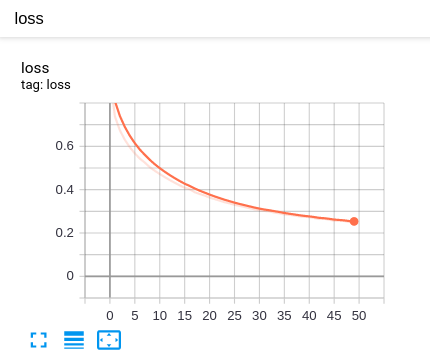
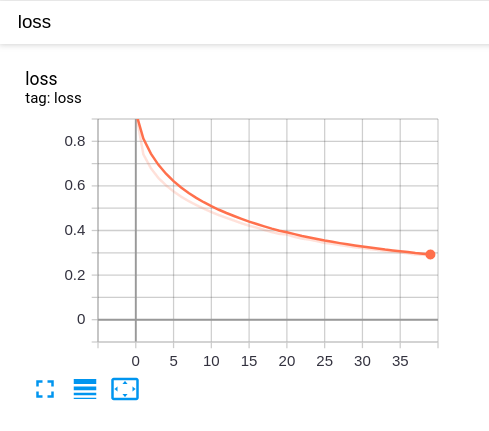
add train logs

diff --git a/libs/configs/cfgs.py b/libs/configs/cfgs.py
@@ -77,7 +77,7 @@ DATASET_PATH = '/media/alex/AC6A2BDB6A2BA0D6/alex_dataset/COCO_2017'
 
 #------------------------network config--------------------------------
 BATCH_SIZE = 64
-TOP_WORDS = 8000
+TOP_WORDS = 6000
 # SEQUENCE_LENGTH = 100 # the number in singe time dimension of a single sequence of input data
 # VOCAB_SIZE = 26
 NUM_UNITS = 512
@@ -91,7 +91,7 @@ ATTENTION_FEATURE_SHAPE = 64
 EMBEDDING_TRANSFER = False
 LEARNING_RATE = 0.001
 NUM_EPOCH = 40
-KEEP_PROB = 1.0
+DROP_OUT = 0.2
 
 # data
 SPLIT_RATIO = 0.2

diff --git a/tools/inference.py b/tools/inference.py
@@ -91,7 +91,10 @@ if __name__ == "__main__":
                                      encoder=encoder,
                                      decoder=decoder)
     # restoring the latest checkpoint in checkpoint_dir
-    checkpoint.restore(tf.train.latest_checkpoint(cfgs.TRAINED_CKPT))
+    ckpt_path = tf.train.latest_checkpoint(cfgs.TRAINED_CKPT)
+    print(ckpt_path)
+
+    checkpoint.restore(ckpt_path)
 
     image_path = os.path.abspath(os.path.join('../tools/demo', 'surf.jpg'))
 

diff --git a/README.md b/README.md
@@ -1,2 +1,348 @@
 # Image-Caption
 Try to realize image caption task with attention mechanism
+
+
+
+## Download Dataset
+
+### COCO 2017
+```shell script
+$ wget http://images.cocodataset.org/annotations/annotations_trainval2017.zip
+$ wget http://images.cocodataset.org/zips/train2017.zip
+$ wget http://images.cocodataset.org/zips/val2017.zip
+```
+
+## train logs
+
+![acc](./docs/loss.png) |
+|:-------------------------:|
+Displayed one-state Loss on Tensorboard | 
+
+```shell script
+Epoch 1 Batch 0 Loss 2.0863
+Epoch 1 Batch 100 Loss 1.0597
+Epoch 1 Batch 200 Loss 0.8964
+Epoch 1 Batch 300 Loss 0.8230
+Epoch 1 Batch 400 Loss 0.7689
+Epoch 1 Loss 0.930465
+Time taken for 1 epoch 88.79079103469849 sec
+
+Epoch 2 Batch 0 Loss 0.7520
+Epoch 2 Batch 100 Loss 0.7526
+Epoch 2 Batch 200 Loss 0.7243
+Epoch 2 Batch 300 Loss 0.7454
+Epoch 2 Batch 400 Loss 0.6925
+Epoch 2 Loss 0.741867
+Time taken for 1 epoch 62.70849061012268 sec
+
+Epoch 3 Batch 0 Loss 0.7186
+Epoch 3 Batch 100 Loss 0.6977
+Epoch 3 Batch 200 Loss 0.6637
+Epoch 3 Batch 300 Loss 0.7347
+Epoch 3 Batch 400 Loss 0.6348
+Epoch 3 Loss 0.679247
+Time taken for 1 epoch 63.417168378829956 sec
+
+Epoch 4 Batch 0 Loss 0.6524
+Epoch 4 Batch 100 Loss 0.6305
+Epoch 4 Batch 200 Loss 0.6449
+Epoch 4 Batch 300 Loss 0.6961
+Epoch 4 Batch 400 Loss 0.6886
+Epoch 4 Loss 0.635317
+Time taken for 1 epoch 62.047245502471924 sec
+
+Epoch 5 Batch 0 Loss 0.6415
+Epoch 5 Batch 100 Loss 0.5704
+Epoch 5 Batch 200 Loss 0.5680
+Epoch 5 Batch 300 Loss 0.5934
+Epoch 5 Batch 400 Loss 0.6082
+Epoch 5 Loss 0.602379
+Time taken for 1 epoch 61.95527362823486 sec
+
+Epoch 6 Batch 0 Loss 0.5951
+Epoch 6 Batch 100 Loss 0.5788
+Epoch 6 Batch 200 Loss 0.6203
+Epoch 6 Batch 300 Loss 0.5834
+Epoch 6 Batch 400 Loss 0.5760
+Epoch 6 Loss 0.575292
+Time taken for 1 epoch 62.17039442062378 sec
+
+Epoch 7 Batch 0 Loss 0.5559
+Epoch 7 Batch 100 Loss 0.5914
+Epoch 7 Batch 200 Loss 0.5531
+Epoch 7 Batch 300 Loss 0.6035
+Epoch 7 Batch 400 Loss 0.5581
+Epoch 7 Loss 0.551670
+Time taken for 1 epoch 62.147112131118774 sec
+
+Epoch 8 Batch 0 Loss 0.5465
+Epoch 8 Batch 100 Loss 0.5727
+Epoch 8 Batch 200 Loss 0.5478
+Epoch 8 Batch 300 Loss 0.5074
+Epoch 8 Batch 400 Loss 0.4858
+Epoch 8 Loss 0.531773
+Time taken for 1 epoch 62.23778820037842 sec
+
+Epoch 9 Batch 0 Loss 0.5312
+Epoch 9 Batch 100 Loss 0.5194
+Epoch 9 Batch 200 Loss 0.5111
+Epoch 9 Batch 300 Loss 0.5043
+Epoch 9 Batch 400 Loss 0.4993
+Epoch 9 Loss 0.514191
+Time taken for 1 epoch 62.399840354919434 sec
+
+Epoch 10 Batch 0 Loss 0.5738
+Epoch 10 Batch 100 Loss 0.5311
+Epoch 10 Batch 200 Loss 0.4454
+Epoch 10 Batch 300 Loss 0.5031
+Epoch 10 Batch 400 Loss 0.4839
+Epoch 10 Loss 0.498033
+Time taken for 1 epoch 62.07080340385437 sec
+
+Epoch 11 Batch 0 Loss 0.4859
+Epoch 11 Batch 100 Loss 0.4914
+Epoch 11 Batch 200 Loss 0.4741
+Epoch 11 Batch 300 Loss 0.5297
+Epoch 11 Batch 400 Loss 0.4536
+Epoch 11 Loss 0.482715
+Time taken for 1 epoch 62.20662593841553 sec
+
+Epoch 12 Batch 0 Loss 0.5237
+Epoch 12 Batch 100 Loss 0.4764
+Epoch 12 Batch 200 Loss 0.4750
+Epoch 12 Batch 300 Loss 0.4888
+Epoch 12 Batch 400 Loss 0.4580
+Epoch 12 Loss 0.468855
+Time taken for 1 epoch 62.08107018470764 sec
+
+Epoch 13 Batch 0 Loss 0.4636
+Epoch 13 Batch 100 Loss 0.4640
+Epoch 13 Batch 200 Loss 0.4617
+Epoch 13 Batch 300 Loss 0.4579
+Epoch 13 Batch 400 Loss 0.4541
+Epoch 13 Loss 0.456626
+Time taken for 1 epoch 62.13136696815491 sec
+
+Epoch 14 Batch 0 Loss 0.4467
+Epoch 14 Batch 100 Loss 0.4213
+Epoch 14 Batch 200 Loss 0.4393
+Epoch 14 Batch 300 Loss 0.4257
+Epoch 14 Batch 400 Loss 0.4088
+Epoch 14 Loss 0.444544
+Time taken for 1 epoch 62.1701021194458 sec
+
+Epoch 15 Batch 0 Loss 0.4061
+Epoch 15 Batch 100 Loss 0.4491
+Epoch 15 Batch 200 Loss 0.4345
+Epoch 15 Batch 300 Loss 0.4342
+Epoch 15 Batch 400 Loss 0.4335
+Epoch 15 Loss 0.432324
+Time taken for 1 epoch 62.208892583847046 sec
+
+Epoch 16 Batch 0 Loss 0.4426
+Epoch 16 Batch 100 Loss 0.4414
+Epoch 16 Batch 200 Loss 0.3999
+Epoch 16 Batch 300 Loss 0.4284
+Epoch 16 Batch 400 Loss 0.4027
+Epoch 16 Loss 0.421366
+Time taken for 1 epoch 62.30162858963013 sec
+
+Epoch 17 Batch 0 Loss 0.3940
+Epoch 17 Batch 100 Loss 0.4292
+Epoch 17 Batch 200 Loss 0.3963
+Epoch 17 Batch 300 Loss 0.3868
+Epoch 17 Batch 400 Loss 0.3989
+Epoch 17 Loss 0.412942
+Time taken for 1 epoch 62.14147686958313 sec
+
+Epoch 18 Batch 0 Loss 0.3981
+Epoch 18 Batch 100 Loss 0.3659
+Epoch 18 Batch 200 Loss 0.4522
+Epoch 18 Batch 300 Loss 0.3812
+Epoch 18 Batch 400 Loss 0.3981
+Epoch 18 Loss 0.402603
+Time taken for 1 epoch 62.11654210090637 sec
+
+Epoch 19 Batch 0 Loss 0.3841
+Epoch 19 Batch 100 Loss 0.3912
+Epoch 19 Batch 200 Loss 0.4184
+Epoch 19 Batch 300 Loss 0.3717
+Epoch 19 Batch 400 Loss 0.3970
+Epoch 19 Loss 0.392885
+Time taken for 1 epoch 62.16392207145691 sec
+
+Epoch 20 Batch 0 Loss 0.4362
+Epoch 20 Batch 100 Loss 0.3851
+Epoch 20 Batch 200 Loss 0.4008
+Epoch 20 Batch 300 Loss 0.3794
+Epoch 20 Batch 400 Loss 0.3680
+Epoch 20 Loss 0.384853
+Time taken for 1 epoch 62.12644672393799 sec
+
+Epoch 21 Batch 0 Loss 0.3904
+Epoch 21 Batch 100 Loss 0.3543
+Epoch 21 Batch 200 Loss 0.3997
+Epoch 21 Batch 300 Loss 0.3970
+Epoch 21 Batch 400 Loss 0.3805
+Epoch 21 Loss 0.382209
+Time taken for 1 epoch 62.24511909484863 sec
+
+Epoch 22 Batch 0 Loss 0.3926
+Epoch 22 Batch 100 Loss 0.3838
+Epoch 22 Batch 200 Loss 0.3491
+Epoch 22 Batch 300 Loss 0.3854
+Epoch 22 Batch 400 Loss 0.3587
+Epoch 22 Loss 0.371357
+Time taken for 1 epoch 62.219072103500366 sec
+
+Epoch 23 Batch 0 Loss 0.3714
+Epoch 23 Batch 100 Loss 0.3741
+Epoch 23 Batch 200 Loss 0.3084
+Epoch 23 Batch 300 Loss 0.3296
+Epoch 23 Batch 400 Loss 0.3730
+Epoch 23 Loss 0.363621
+Time taken for 1 epoch 62.25777769088745 sec
+
+Epoch 24 Batch 0 Loss 0.3738
+Epoch 24 Batch 100 Loss 0.3567
+Epoch 24 Batch 200 Loss 0.3628
+Epoch 24 Batch 300 Loss 0.3637
+Epoch 24 Batch 400 Loss 0.3498
+Epoch 24 Loss 0.358977
+Time taken for 1 epoch 62.57697415351868 sec
+
+Epoch 25 Batch 0 Loss 0.3872
+Epoch 25 Batch 100 Loss 0.4195
+Epoch 25 Batch 200 Loss 0.3318
+Epoch 25 Batch 300 Loss 0.3614
+Epoch 25 Batch 400 Loss 0.3466
+Epoch 25 Loss 0.352132
+Time taken for 1 epoch 63.967907190322876 sec
+
+Epoch 26 Batch 0 Loss 0.3206
+Epoch 26 Batch 100 Loss 0.3347
+Epoch 26 Batch 200 Loss 0.3387
+Epoch 26 Batch 300 Loss 0.3584
+Epoch 26 Batch 400 Loss 0.3120
+Epoch 26 Loss 0.344149
+Time taken for 1 epoch 63.447741985321045 sec
+
+Epoch 27 Batch 0 Loss 0.3415
+Epoch 27 Batch 100 Loss 0.3525
+Epoch 27 Batch 200 Loss 0.3529
+Epoch 27 Batch 300 Loss 0.3527
+Epoch 27 Batch 400 Loss 0.3293
+Epoch 27 Loss 0.340496
+Time taken for 1 epoch 63.6301372051239 sec
+
+Epoch 28 Batch 0 Loss 0.3349
+Epoch 28 Batch 100 Loss 0.2965
+Epoch 28 Batch 200 Loss 0.3220
+Epoch 28 Batch 300 Loss 0.2956
+Epoch 28 Batch 400 Loss 0.3189
+Epoch 28 Loss 0.334551
+Time taken for 1 epoch 63.77362656593323 sec
+
+Epoch 29 Batch 0 Loss 0.3655
+Epoch 29 Batch 100 Loss 0.3289
+Epoch 29 Batch 200 Loss 0.3342
+Epoch 29 Batch 300 Loss 0.3206
+Epoch 29 Batch 400 Loss 0.3251
+Epoch 29 Loss 0.329783
+Time taken for 1 epoch 62.467034101486206 sec
+
+Epoch 30 Batch 0 Loss 0.3274
+Epoch 30 Batch 100 Loss 0.3244
+Epoch 30 Batch 200 Loss 0.3332
+Epoch 30 Batch 300 Loss 0.3009
+Epoch 30 Batch 400 Loss 0.3038
+Epoch 30 Loss 0.324632
+Time taken for 1 epoch 62.47533202171326 sec
+
+Epoch 31 Batch 0 Loss 0.3113
+Epoch 31 Batch 100 Loss 0.3477
+Epoch 31 Batch 200 Loss 0.3191
+Epoch 31 Batch 300 Loss 0.3609
+Epoch 31 Batch 400 Loss 0.3035
+Epoch 31 Loss 0.321229
+Time taken for 1 epoch 62.55126929283142 sec
+
+Epoch 32 Batch 0 Loss 0.2778
+Epoch 32 Batch 100 Loss 0.3289
+Epoch 32 Batch 200 Loss 0.3057
+Epoch 32 Batch 300 Loss 0.3099
+Epoch 32 Batch 400 Loss 0.2980
+Epoch 32 Loss 0.316528
+Time taken for 1 epoch 62.464524030685425 sec
+
+Epoch 33 Batch 0 Loss 0.3295
+Epoch 33 Batch 100 Loss 0.2889
+Epoch 33 Batch 200 Loss 0.3131
+Epoch 33 Batch 300 Loss 0.3423
+Epoch 33 Batch 400 Loss 0.3448
+Epoch 33 Loss 0.312820
+Time taken for 1 epoch 62.75636649131775 sec
+
+Epoch 34 Batch 0 Loss 0.3229
+Epoch 34 Batch 100 Loss 0.3235
+Epoch 34 Batch 200 Loss 0.3091
+Epoch 34 Batch 300 Loss 0.3469
+Epoch 34 Batch 400 Loss 0.3308
+Epoch 34 Loss 0.307286
+Time taken for 1 epoch 62.305132150650024 sec
+
+Epoch 35 Batch 0 Loss 0.3148
+Epoch 35 Batch 100 Loss 0.2995
+Epoch 35 Batch 200 Loss 0.3408
+Epoch 35 Batch 300 Loss 0.3138
+Epoch 35 Batch 400 Loss 0.3434
+Epoch 35 Loss 0.304650
+Time taken for 1 epoch 62.25085163116455 sec
+
+Epoch 36 Batch 0 Loss 0.3383
+Epoch 36 Batch 100 Loss 0.3102
+Epoch 36 Batch 200 Loss 0.2898
+Epoch 36 Batch 300 Loss 0.3076
+Epoch 36 Batch 400 Loss 0.3222
+Epoch 36 Loss 0.301535
+Time taken for 1 epoch 62.374159812927246 sec
+
+Epoch 37 Batch 0 Loss 0.2838
+Epoch 37 Batch 100 Loss 0.2927
+Epoch 37 Batch 200 Loss 0.3351
+Epoch 37 Batch 300 Loss 0.2726
+Epoch 37 Batch 400 Loss 0.3107
+Epoch 37 Loss 0.297765
+Time taken for 1 epoch 62.236708641052246 sec
+
+Epoch 38 Batch 0 Loss 0.2836
+Epoch 38 Batch 100 Loss 0.2958
+Epoch 38 Batch 200 Loss 0.3041
+Epoch 38 Batch 300 Loss 0.2941
+Epoch 38 Batch 400 Loss 0.3319
+Epoch 38 Loss 0.292036
+Time taken for 1 epoch 62.27911949157715 sec
+
+Epoch 39 Batch 0 Loss 0.2858
+Epoch 39 Batch 100 Loss 0.2938
+Epoch 39 Batch 200 Loss 0.2788
+Epoch 39 Batch 300 Loss 0.2647
+Epoch 39 Batch 400 Loss 0.2693
+Epoch 39 Loss 0.291534
+Time taken for 1 epoch 62.24754738807678 sec
+
+Epoch 40 Batch 0 Loss 0.3388
+Epoch 40 Batch 100 Loss 0.3091
+Epoch 40 Batch 200 Loss 0.2944
+Epoch 40 Batch 300 Loss 0.2755
+Epoch 40 Batch 400 Loss 0.2842
+Epoch 40 Loss 0.287238
+Time taken for 1 epoch 62.27051019668579 sec
+```
+
+## TODO
+
+## Reference
+
+
+
